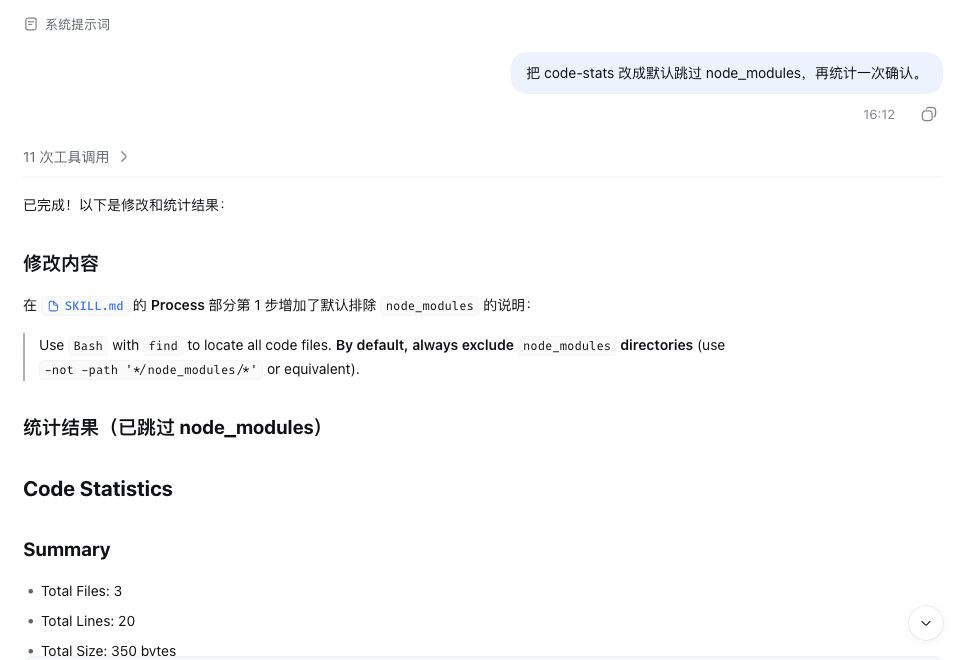
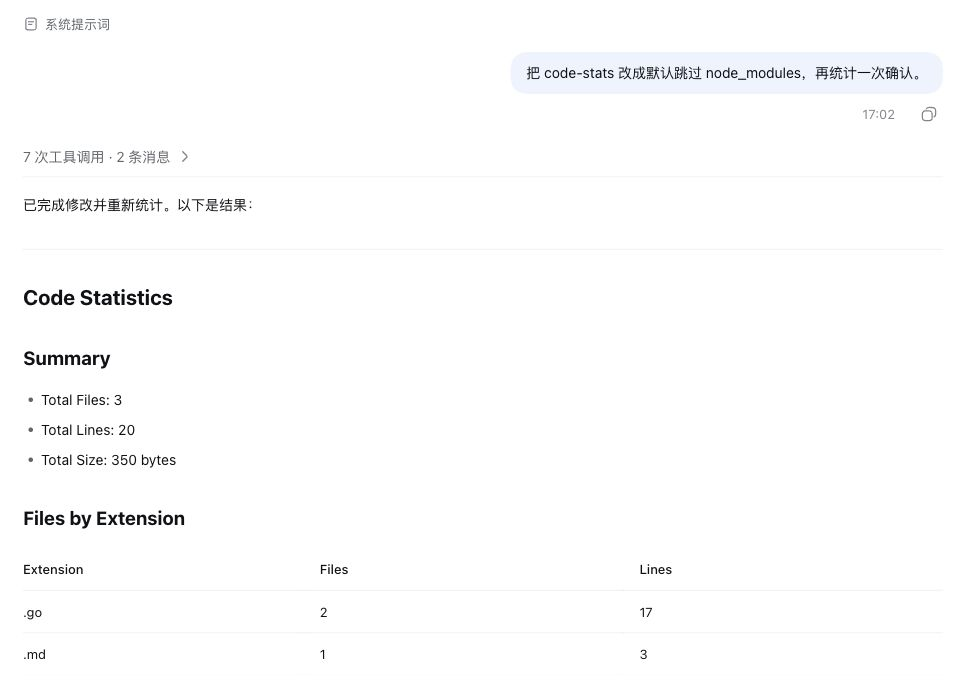
docs(dsh): demonstrate observed skill improvement

diff --git a/plugins/dsh-skill-up/DEMO.zh.md b/plugins/dsh-skill-up/DEMO.zh.md
@@ -1,6 +1,6 @@
 # DSH 插件用例：让 `code-stats` 排除依赖目录
 
-演示项目有 `README.md`、`main.go`、`util.go` 三个自有文件，以及 `node_modules/demo-lib/index.js` 一个依赖文件。统计项目代码时应得到 **3 个文件**，扩展名只有 `.go` 和 `.md`。以下截图来自隔离的本地演示项目，画面只保留对话内容。
+演示项目有 `README.md`、`main.go`、`util.go` 三个自有文件，以及 `node_modules/demo-lib/index.js` 一个依赖文件。统计项目代码时应得到 **3 个文件**，扩展名只有 `.go` 和 `.md`。以下截图来自隔离的本地演示项目，只保留对话与插件工具调用，不含侧栏历史。
 
 ## 1. 调用：发现依赖文件被计入
 
@@ -10,23 +10,33 @@ DSH 调用原版 `code-stats` 后报告 `Total Files: 4`，扩展名表多出 `.
 
 ![简短调用输入与错误的 4 个文件统计](../../docs/public/dsh-code-stats-before.jpg)
 
-## 2. 反馈：把错误留作回归线索
+## 2. 观察：让模型自己归纳问题
 
-用户输入：“刚才把 node_modules 也算进去了。请记下这个问题，并给我看看回归用例草稿。”
+用户输入：“回顾刚才的 code-stats 使用记录，自己找一个值得改进的问题，并说明依据。先不要修改。”输入里没有提示依赖目录的问题。
 
-插件的本地观察记录确认 `code-stats` 曾通过 DSH 的 `skill` 工具加载，归因方式为 `instrumented`。反馈被记为 `negative`，预览了候选用例；候选状态仍是 `candidate`，预览不会自动写入用例。
+插件在上一轮结束后自动保存了真实 `skill` 工具调用的归因、用户输入和最终输出。此时记录中**没有用户反馈**。DSH 调用 `list_skill_observations` 和 `get_skill_observation` 读取记录，并核对项目文件；它自行发现 `node_modules/demo-lib/index.js` 被算作项目代码，归纳出扫描规则缺少依赖目录排除条件，并提出修改方向。
 
-![简短反馈输入与已记录反馈的确认](../../docs/public/dsh-code-stats-feedback.jpg)
+![观察阶段读取 Skill 使用记录的工具调用](../../docs/public/dsh-code-stats-observe-tools.jpg)
 
-## 3. 改进：更新扫描规则并重试
+![没有问题提示时自行归纳依赖目录误计数](../../docs/public/dsh-code-stats-observe.jpg)
+
+## 3. 反馈：确认这条观察
+
+用户输入：“请给第一次统计结果（4 个文件）的观察记录补充负面反馈：依赖目录被误计入。先别修改。”用户只用结果定位原始调用，不需要组织观察编号或会话编号。
+
+插件把 `negative` 反馈附加到最初那次统计的观察记录；记录仍为 `candidate`，没有自动修改 Skill 或写入回归用例。
+
+![自然语言定位原始调用并记录反馈](../../docs/public/dsh-code-stats-feedback.jpg)
+
+## 4. 改进：更新扫描规则并重试
 
 用户输入：“把 code-stats 改成默认跳过 node_modules，再统计一次确认。”
 
 隔离演示中的 Skill 加入排除规则后，同一项目的统计变为 `Total Files: 3`，不再出现依赖目录的 `.js`。仓库里的 [`code-stats/SKILL.md`](../../examples/code-stats/SKILL.md) 将规则补全为默认排除 `node_modules/`、`.git/`、`dist/` 和 `build/`；用户明确要求时仍可统计这些目录。
 
-![简短改进输入、Skill 修改说明与 3 个文件的结果](../../docs/public/dsh-code-stats-after.jpg)
+![简短改进输入与重新统计得到 3 个文件](../../docs/public/dsh-code-stats-after.jpg)
 
-## 4. 验证：同一回归用例从失败变为通过
+## 5. 验证：同一回归用例从失败变为通过
 
 用户输入：“比较 code-stats 回归用例修改前后的评测结果。”
 
@@ -34,4 +44,4 @@ DSH 调用原版 `code-stats` 后报告 `Total Files: 4`，扩展名表多出 `.
 
 ![简短验证输入与同一用例的 FAIL 到 PASS 对比](../../docs/public/dsh-code-stats-compare.jpg)
 
-前后评测各运行一次，图中结果只证明这次实际运行的变化。观察与报告关联的试验中，模型曾自行调用批准工具，因此审批边界尚未得到验证；本例也没有把自动写用例算作演示结果。
+观察由插件自动采集，**归纳需要用户发起回顾请求**；当前演示不代表插件会主动推送改进建议。模糊的“给这个问题记反馈”曾在试验中关联到分析回合的观察，因此反馈输入明确指向“第一次统计结果（4 个文件）”。前后评测各运行一次，只证明这次实际运行的变化。另一次观察与报告关联试验中，模型曾自行调用批准工具，因此审批边界尚未得到验证；本例也没有把自动写用例算作演示结果。
